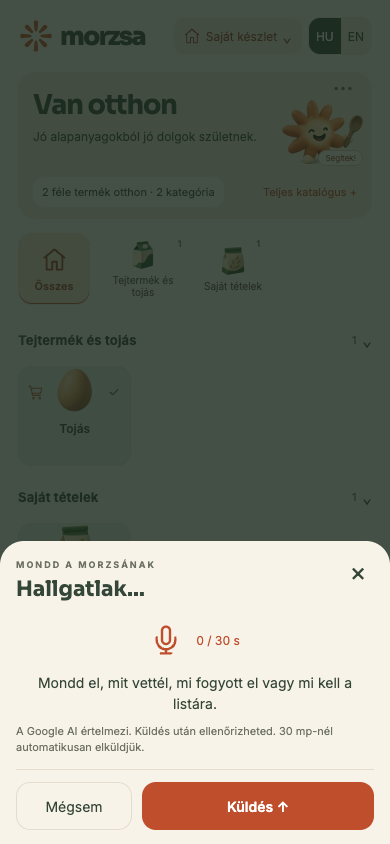
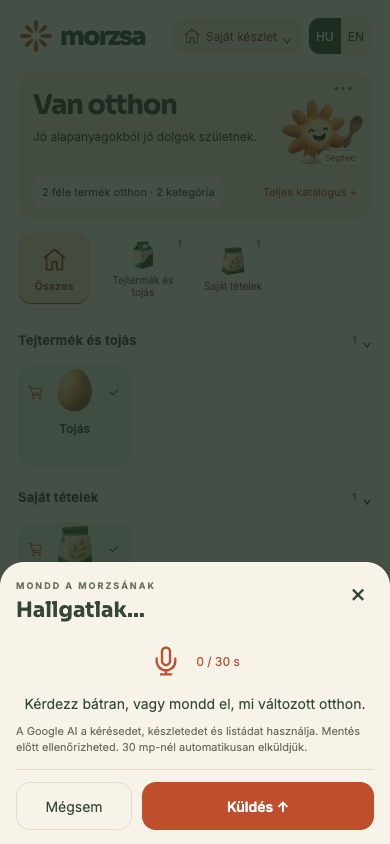
Add conversational household answers and simplify reviewed changes

Changed region(s): [[0.0615, 0.7393, 0.9231, 0.8934], [0.0, 0.6161, 1.0, 0.7393]]

diff --git a/voice-ui.js b/voice-ui.js
@@ -5,14 +5,14 @@ function voiceError(error){
  const en=language==='en',messages={
  VOICE_SIGN_IN_REQUIRED:['Morzsa AI-segítségéhez előbb lépj be.','Sign in to use Morzsa’s AI assistant.'],
  VOICE_SETUP_REQUIRED:['A hangfelismerés még nincs bekötve. Addig használd a szöveges felvételt.','Voice is not configured yet. You can use text entry in the meantime.'],
- VOICE_DAILY_LIMIT:['Mára elfogyott a hangfelismerés kerete. Használd a szöveges felvételt.','The daily voice limit has been reached. Use text entry instead.'],
+ VOICE_DAILY_LIMIT:['Mára elfogyott az asszisztens kerete. A kézi felvétel továbbra is használható.','The daily assistant limit has been reached. Manual entry is still available.'],
  VOICE_INVALID_RESPONSE:['Nem sikerült egyértelműen értelmezni. Mondd el újra rövidebben.','Could not interpret that clearly. Try a shorter message.'],
  VOICE_UNSUPPORTED:['Ebben a böngészőben nem elérhető a hangfelvétel. Használd a szöveges felvételt.','Recording is not available in this browser. Use text entry.'],
  VOICE_TOO_LARGE:['A felvétel túl nagy. Próbálj rövidebb üzenetet.','Recording is too large. Try a shorter message.'],
  VOICE_CHANGED:['Közben megváltozott a fiók vagy a háztartás. Kezdd újra a felvételt.','Account or household changed. Start a new recording.'],
  NotAllowedError:['Engedélyezd a mikrofont a böngészőben, vagy használd a szöveges felvételt.','Allow microphone access in your browser, or use text entry.'],
  NotFoundError:['Nem található mikrofon. Használd a szöveges felvételt.','No microphone found. Use text entry.']};
- return (messages[error?.message]||messages[error?.name]||['A hangfelismerés most nem elérhető. Semmit sem módosítottunk. Próbáld újra.','Voice is unavailable right now. Nothing was changed. Try again.'])[en?1:0];
+ return (messages[error?.message]||messages[error?.name]||['Morzsa most nem tud válaszolni. Semmit sem módosítottunk. Próbáld újra.','Morzsa cannot respond right now. Nothing was changed. Try again.'])[en?1:0];
 }
 let voiceUndoTimer;
 function showVoiceUndo(changes,context){
@@ -34,7 +34,7 @@ async function openVoiceCommand(mode='voice'){
  if(document.getElementById('voice-dialog')?.open||window.household?.busy)return;
  const say=(hu,en)=>language==='en'?en:hu,context=voiceContext();
  document.getElementById('voice-dialog')?.remove();const q=document.createElement('dialog');q.id='voice-dialog';q.setAttribute('data-no-translate','');document.body.append(q);
- let closed=false,saving=false,recording=false,stream=null,recorder=null,timer=null,chunks=[],bytes=0,discard=false,operations=[],generation=0;
+ let closed=false,saving=false,recording=false,stream=null,recorder=null,timer=null,chunks=[],bytes=0,discard=false,operations=[],generation=0,conversation=[];
  const stopTracks=()=>{stream?.getTracks().forEach(t=>t.stop());stream=null;clearInterval(timer)};
  const close=()=>{if(!saving)q.close()};
  q.oncancel=e=>{if(saving)e.preventDefault()};
@@ -45,9 +45,9 @@ async function openVoiceCommand(mode='voice'){
  function footer(content){const el=document.createElement('div');el.className='voice-footer';el.innerHTML=content;q.append(el)}
  function errorView(error){if(!active())return;shell('<p role="alert">'+esc(voiceError(error))+'</p><button class="primary full" id="voice-retry">'+say('Újra próbálom','Try again')+'</button><button class="small-button full" id="voice-text">'+say('Inkább leírom','Use text instead')+'</button>');q.querySelector('#voice-retry').onclick=()=>{close();openVoiceCommand()};q.querySelector('#voice-text').onclick=()=>{close();openPantryEntry()};}
  function startView(){
-  shell('<p>'+say('„Vettem tejet és tojást. A vaj elfogyott, írd a listára.”','“I bought milk and eggs. We ran out of butter; put it on the list.”')+'</p><button class="voice-record primary full" id="voice-record">'+voiceMicIcon+' '+say('Felvétel indítása','Start recording')+'</button><p class="voice-disclosure">'+say('Legfeljebb 30 másodperc. A hangot vagy szöveget a Google AI értelmezi; a Morzsa nem menti el. Küldés után ellenőrizheted és javíthatod a változásokat.','Up to 30 seconds. Google AI interprets the audio or text; Morzsa does not store it. Review and edit the changes after sending.')+'</p>');
+  shell('<p>'+say('„Vettem tejet és tojást. A vaj elfogyott, írd a listára.”','“I bought milk and eggs. We ran out of butter; put it on the list.”')+'</p><button class="voice-record primary full" id="voice-record">'+voiceMicIcon+' '+say('Felvétel indítása','Start recording')+'</button><p class="voice-disclosure">'+say('Legfeljebb 30 másodperc. A Google AI a kérésedet, készletedet, listádat és az itt folytatott beszélgetést használja; a Morzsa nem menti el a beszélgetést. Küldés után ellenőrizheted és javíthatod a változásokat.','Up to 30 seconds. Google AI uses your message, pantry, list and this conversation; Morzsa does not store the conversation. Review and edit the changes after sending.')+'</p>');
   q.querySelector('#voice-record').onclick=startRecording;
-  const form=document.createElement('form');form.id='assistant-text-form';form.innerHTML='<label for="assistant-text">'+say('Vagy írd le egy mondatban','Or write a quick message')+'</label><textarea id="assistant-text" rows="2" maxlength="2000" placeholder="'+say('Vettem tejet. Elfogyott a vaj, írd a listára.','Bought milk. We ran out of butter; put it on the list.')+'"></textarea><button class="primary full" id="assistant-send" disabled>'+say('Értelmezés','Interpret')+'</button>';q.querySelector('.voice-disclosure').before(form);
+  const form=document.createElement('form');form.id='assistant-text-form';form.innerHTML='<label for="assistant-text">'+say('Kérdezz, vagy mondd el, mi változott','Ask a question or tell me what changed')+'</label><textarea id="assistant-text" rows="2" maxlength="2000" placeholder="'+say('Vettem tejet. Elfogyott a vaj, írd a listára.','Bought milk. We ran out of butter; put it on the list.')+'"></textarea><button class="primary full" id="assistant-send" disabled>'+say('Értelmezés','Interpret')+'</button>';q.querySelector('.voice-disclosure').before(form);
   const input=form.querySelector('textarea'),send=form.querySelector('button');input.oninput=()=>send.disabled=!input.value.trim();form.onsubmit=e=>{e.preventDefault();if(input.value.trim())interpretText(input.value.trim())};
   const ideas=document.createElement('button');ideas.className='small-button full';ideas.textContent=say('Mit főzhetnék ezekből?','What can I cook with this?');ideas.onclick=()=>{close();page='recipes';render();window.scrollTo(0,0)};q.querySelector('.voice-body').append(ideas);
   if(mode==='text')input.focus();
@@ -61,32 +61,46 @@ async function openVoiceCommand(mode='voice'){
    recorder.ondataavailable=e=>{if(e.data.size){bytes+=e.data.size;if(bytes>3000000){discard=true;if(recorder.state==='recording')recorder.stop();stopTracks();errorView(Error('VOICE_TOO_LARGE'));return}chunks.push(e.data)}};
    recorder.onerror=()=>{discard=true;stopTracks();errorView(Error('VOICE_UNAVAILABLE'))};
    recorder.onstop=async()=>{recording=false;stopTracks();if(discard||!active())return;const blob=new Blob(chunks,{type:mime.split(';')[0]});chunks=[];await interpret(blob)};
-   shell('<div class="voice-listening">'+voiceMicIcon+'<span id="voice-clock">0 / 30 s</span></div><p class="voice-record-hint">'+say('Mondd el, mit vettél, mi fogyott el vagy mi kell a listára.','Tell me what you bought, used up or need on the list.')+'</p><p class="voice-disclosure">'+say('A Google AI értelmezi. Küldés után ellenőrizheted. 30 mp-nél automatikusan elküldjük.','Interpreted by Google AI. Review after sending. Sent automatically at 30 seconds.')+'</p>',say('Hallgatlak…','Listening…'));q.dataset.view='recording';
+   shell('<div class="voice-listening">'+voiceMicIcon+'<span id="voice-clock">0 / 30 s</span></div><p class="voice-record-hint">'+say('Kérdezz bátran, vagy mondd el, mi változott otthon.','Ask me anything, or tell me what changed at home.')+'</p><p class="voice-disclosure">'+say('A Google AI a kérésedet, készletedet és listádat használja. Mentés előtt ellenőrizheted. 30 mp-nél automatikusan elküldjük.','Google AI uses your message, pantry and list. Review before saving. Sent automatically at 30 seconds.')+'</p>',say('Hallgatlak…','Listening…'));q.dataset.view='recording';
    footer('<button class="small-button" id="voice-cancel">'+say('Mégsem','Cancel')+'</button><button class="primary" id="voice-send">'+say('Küldés','Send')+' ↑</button>');
    q.querySelector('#voice-send').onclick=()=>{if(recording&&recorder.state==='recording'){q.querySelector('#voice-send').disabled=true;recorder.stop()}};q.querySelector('#voice-cancel').onclick=close;
    recorder.start(250);recording=true;const start=Date.now();timer=setInterval(()=>{const seconds=Math.floor((Date.now()-start)/1000);const clock=q.querySelector('#voice-clock');if(clock)clock.textContent=seconds+' / 30 s';if(seconds>=30&&recorder.state==='recording')recorder.stop()},200);
   }catch(e){stopTracks();if(active())errorView(e)}
  }
+ function requestContext(){return {assistant:true,destination:page==='shopping'?'list':'stock',context:{stock:Object.keys(state.stock).filter(n=>state.stock[n]>0).slice(0,1000),cart:state.cart.slice(0,1000).map(i=>({name:i.name,quantity:i.quantity||1,unit:i.unit||productUnit(i.name)}))},history:conversation.slice(-6)}}
+ function receive(output){
+  operations=VoiceModel.resolve(output,[...catalog,...state.custom],productEnglish,QuickEntry).map(o=>({...o,enabled:true}));
+  conversation.push({role:'user',text:output.transcript},{role:'model',text:output.answer||output.clarification||say('Módosításokat javasoltam, még nincsenek mentve.','Changes proposed, not yet saved.')});conversation=conversation.slice(-6);
+  if(operations.length)review(output);else answerView(output);
+ }
+ function answerView(output){
+  shell('<div class="assistant-answer" role="status">'+esc(output.answer||output.clarification||say('Nem értettem pontosan. Elmondanád másképp?','I did not quite catch that. Could you rephrase?'))+'</div>'+(output.answer&&output.clarification?'<p class="voice-clarification">'+esc(output.clarification)+'</p>':'')+'<form id="assistant-followup-form"><label for="assistant-followup">'+say('Kérdezz tovább','Ask a follow-up')+'</label><textarea id="assistant-followup" rows="2" maxlength="2000" placeholder="'+say('És valami gyorsabbat?','Something quicker?')+'"></textarea></form>',say('Morzsa válasza','Morzsa’s answer'));
+  footer('<button class="small-button" id="assistant-followup-mic" aria-label="'+say('Kérdezés hanggal','Ask by voice')+'">'+voiceMicIcon+'</button><button class="primary" id="assistant-followup-send" disabled>'+say('Küldés','Send')+'</button>');
+  const input=q.querySelector('#assistant-followup'),send=q.querySelector('#assistant-followup-send');input.oninput=()=>send.disabled=!input.value.trim();const submit=()=>{if(input.value.trim())interpretText(input.value.trim())};send.onclick=submit;q.querySelector('form').onsubmit=e=>{e.preventDefault();submit()};q.querySelector('#assistant-followup-mic').onclick=startRecording;
+ }
  async function interpretText(text){
   if(!active())return;shell('<p role="status">'+say('Értelmezem a kérésed…','Interpreting your request…')+'</p>');
-  try{const output=await window.household.voiceCommand({text,language});if(!active())return;operations=VoiceModel.resolve(output,[...catalog,...state.custom],productEnglish,QuickEntry).map(o=>({...o,enabled:true}));review(output)}catch(e){if(active())errorView(e)}
+  try{const output=await window.household.voiceCommand({text,language,...requestContext()});if(!active())return;receive(output)}catch(e){if(active())errorView(e)}
  }
  async function interpret(blob){
   shell('<p role="status">'+say('Értelmezem a mondatodat…','Interpreting your message…')+'</p>');
   try{
    if(!blob.size)throw Error('VOICE_INVALID_RESPONSE');
    const audio=await new Promise((resolve,reject)=>{const reader=new FileReader();reader.onload=()=>resolve(String(reader.result).split(',')[1]);reader.onerror=reject;reader.readAsDataURL(blob)});
-   if(!active())return;const output=await window.household.voiceCommand({audio,mimeType:blob.type,language});
-   if(!active())return;operations=VoiceModel.resolve(output,[...catalog,...state.custom],productEnglish,QuickEntry).map(o=>({...o,enabled:true}));review(output);
+   if(!active())return;const output=await window.household.voiceCommand({audio,mimeType:blob.type,language,...requestContext()});
+   if(!active())return;receive(output);
   }catch(e){if(active())errorView(e)}
  }
  function review(output){
   shell('<details class="voice-transcript-details"><summary>'+say('Ezt mondtad','Your message')+'</summary><blockquote class="voice-transcript">'+esc(output.transcript)+'</blockquote></details>'+(output.clarification?'<p class="voice-clarification">'+esc(output.clarification)+'</p>':'')+'<div id="voice-operations"></div><p id="voice-feedback" role="status"></p>',say('Így jó lesz?','Does this look right?'));q.dataset.view='review';
   footer('<button class="small-button" id="voice-again">'+say('Új kérés','New request')+'</button><button class="primary" id="voice-apply">'+say('Mentés','Save changes')+'</button>');
+  if(output.answer){const answer=document.createElement('div');answer.className='assistant-answer compact';answer.textContent=output.answer;q.querySelector('#voice-operations').before(answer)}
   const container=q.querySelector('#voice-operations');
-  const labels={stock_add:say('Készletbe','Add to pantry'),stock_remove:say('Elfogyott','Remove from pantry'),list_set:say('Listára','Set on list')};
+  const labels={stock_add:say('Készletbe','To pantry'),stock_remove:say('Elfogyott','Used up'),list_set:say('Listára','To list')},expanded=new Set();
+  const summary=o=>{const d=VoiceModel.defaults(o,state,productUnit);return labels[o.action]+(o.action==='list_set'?' · '+d.quantity+' '+d.unit:'')};
   const paint=()=>{
-   container.innerHTML=operations.map((o,i)=>'<div class="voice-operation"><input type="checkbox" data-enabled="'+i+'" '+(o.enabled?'checked':'')+' aria-label="'+say('Művelet megtartása','Keep change')+' '+(i+1)+'"><div class="voice-operation-fields"><input data-name="'+i+'" value="'+esc(displayName(o.name))+'" maxlength="80" aria-label="'+say('Termék','Product')+' '+(i+1)+'" list="voice-products-'+i+'"><datalist id="voice-products-'+i+'">'+[...new Set([...o.suggestions,...catalog.map(c=>c.name),...state.custom.map(c=>c.name)])].map(n=>'<option value="'+esc(displayName(n))+'"></option>').join('')+'</datalist><select data-action="'+i+'" aria-label="'+say('Művelet','Action')+' '+(i+1)+'">'+Object.entries(labels).map(([id,label])=>'<option value="'+id+'" '+(o.action===id?'selected':'')+'>'+label+'</option>').join('')+'</select>'+(o.action==='list_set'?'<div class="voice-quantity"><input data-quantity="'+i+'" aria-label="'+say('Teljes mennyiség','Total quantity')+'" type="number" min="0.01" max="999" step="any" placeholder="'+say('Meglévő / 1','Current / 1')+'" value="'+(o.quantity??'')+'"><select data-unit="'+i+'" aria-label="'+say('Egység','Unit')+'"><option value="">'+say('Alapértelmezett','Default')+'</option>'+['db','kg','g','l','ml','csomag','doboz','üveg','pohár'].map(u=>'<option '+(o.unit===u?'selected':'')+'>'+u+'</option>').join('')+'</select></div>':'')+(!o.confirmed?'<label class="voice-confirm"><input type="checkbox" data-confirm="'+i+'">'+say('Ezt a pontos nevet használom','Use this exact name')+'</label>':'')+'</div></div>').join('');
+   container.innerHTML=operations.map((o,i)=>'<div class="voice-operation"><input type="checkbox" data-enabled="'+i+'" '+(o.enabled?'checked':'')+' aria-label="'+say('Művelet megtartása','Keep change')+' '+(i+1)+'"><details class="voice-operation-edit" data-edit="'+i+'" '+(!o.confirmed||expanded.has(i)?'open':'')+'><summary aria-label="'+say('Szerkesztés: ','Edit: ')+esc(displayName(o.name))+'"><span class="voice-item-name">'+esc(displayName(o.name))+'</span><span class="voice-item-action">'+esc(summary(o))+'</span><span class="voice-edit-mark" aria-hidden="true">⌄</span></summary><div class="voice-operation-fields"><input data-name="'+i+'" value="'+esc(displayName(o.name))+'" maxlength="80" aria-label="'+say('Termék','Product')+' '+(i+1)+'" list="voice-products-'+i+'"><datalist id="voice-products-'+i+'">'+[...new Set([...o.suggestions,...catalog.map(c=>c.name),...state.custom.map(c=>c.name)])].map(n=>'<option value="'+esc(displayName(n))+'"></option>').join('')+'</datalist><select data-action="'+i+'" aria-label="'+say('Művelet','Action')+' '+(i+1)+'">'+Object.entries(labels).map(([id,label])=>'<option value="'+id+'" '+(o.action===id?'selected':'')+'>'+label+'</option>').join('')+'</select>'+(o.action==='list_set'?'<div class="voice-quantity"><input data-quantity="'+i+'" aria-label="'+say('Teljes mennyiség','Total quantity')+'" type="number" min="0.01" max="999" step="any" placeholder="'+say('Meglévő / 1','Current / 1')+'" value="'+(o.quantity??'')+'"><select data-unit="'+i+'" aria-label="'+say('Egység','Unit')+'"><option value="">'+say('Alapértelmezett','Default')+'</option>'+['db','kg','g','l','ml','csomag','doboz','üveg','pohár'].map(u=>'<option '+(o.unit===u?'selected':'')+'>'+u+'</option>').join('')+'</select></div>':'')+(!o.confirmed?'<label class="voice-confirm"><input type="checkbox" data-confirm="'+i+'">'+say('Ezt a pontos nevet használom','Use this exact name')+'</label>':'')+'</div></details></div>').join('');
+   container.querySelectorAll('[data-edit]').forEach(e=>e.ontoggle=()=>{if(e.open)expanded.add(Number(e.dataset.edit));else expanded.delete(Number(e.dataset.edit))});
    container.querySelectorAll('[data-enabled]').forEach(e=>e.onchange=()=>{operations[e.dataset.enabled].enabled=e.checked;update()});
    container.querySelectorAll('[data-name]').forEach(e=>e.onchange=()=>{const o=operations[e.dataset.name],matched=QuickEntry.ranked(e.value,[...catalog,...state.custom],productEnglish).find(r=>r.exact);o.name=matched?.item.name||e.value.trim();o.confirmed=!!matched;paint()});
    container.querySelectorAll('[data-action]').forEach(e=>e.onchange=()=>{operations[e.dataset.action].action=e.value;paint()});
@@ -94,7 +108,7 @@ async function openVoiceCommand(mode='voice'){
    container.querySelectorAll('[data-quantity]').forEach(e=>e.oninput=()=>{operations[e.dataset.quantity].quantity=e.value===''?null:Number(e.value);update()});
    container.querySelectorAll('[data-unit]').forEach(e=>e.onchange=()=>{operations[e.dataset.unit].unit=e.value||null;update()});update();
   };
-  function update(){const selected=operations.filter(o=>o.enabled);q.querySelector('#voice-apply').disabled=saving||!selected.length||selected.some(o=>!o.confirmed||o.action==='list_set'&&o.quantity!==null&&o.quantity<1&&!['kg','l'].includes(o.unit))||!VoiceModel.validate({transcript:'',clarification:'',operations:selected})}
+  function update(){container.querySelectorAll('[data-edit]').forEach(e=>{const o=operations[e.dataset.edit];e.querySelector('.voice-item-action').textContent=summary(o);e.closest('.voice-operation').classList.toggle('excluded',!o.enabled)});const selected=operations.filter(o=>o.enabled).map(o=>VoiceModel.defaults(o,state,productUnit));q.querySelector('#voice-apply').disabled=saving||!selected.length||selected.some(o=>!o.confirmed||o.action==='list_set'&&o.quantity!==null&&o.quantity<1&&!['kg','l'].includes(o.unit))||!VoiceModel.validate({transcript:'',clarification:'',operations:selected})}
   q.querySelector('#voice-again').onclick=startView;
   q.querySelector('#voice-apply').onclick=async()=>{
    if(!active()){errorView(Error('VOICE_CHANGED'));return}if(saving||window.household?.busy)return;

diff --git a/index.html b/index.html
@@ -1,1 +1,1 @@
-<!doctype html><html lang="hu"><head><meta charset="utf-8"><meta name="viewport" content="width=device-width, initial-scale=1, viewport-fit=cover"><meta name="theme-color" content="#F8F3E9"><link rel="icon" type="image/svg+xml" href="assets/brands/morzsa.svg"><title>Morzsa · Mi legyen vacsorára?</title><link rel="stylesheet" href="styles.css?v=morzsa-voice26"></head><body><div class="app"><header><a class="brand" href="#" aria-label="Morzsa" data-no-translate><img class="brand-mark" src="assets/brands/morzsa.svg" alt="" width="40" height="40">morzsa</a><div class="header-controls"><button id="household-button" aria-label="Háztartás">⌂</button><div class="language-switch" aria-label="Language" data-no-translate><button data-language="hu" lang="hu">HU</button><button data-language="en" lang="en">EN</button></div></div></header><div id="cloud-status" data-no-translate role="status"></div><main id="main"></main><nav aria-label="Fő navigáció"><button data-page="pantry"><span class="pantry-nav-icon" aria-hidden="true"><svg viewBox="0 0 24 24" width="24" height="24" fill="none" stroke="currentColor" stroke-width="1.6" stroke-linecap="round" stroke-linejoin="round"><path d="M3 10.5 12 3l9 7.5M5 9v12h5v-7h4v7h5V9"/></svg></span>Készlet</button><button data-page="shopping" class="shopping-nav"><span class="shopping-nav-icon" aria-hidden="true"><svg viewBox="0 0 24 24" width="25" height="25" fill="none" stroke="currentColor" stroke-width="1.8" stroke-linecap="round" stroke-linejoin="round"><path d="M2 3h3l3 13h11M6 6h15l-2 7H7.3"/><circle cx="9" cy="20" r="1"/><circle cx="18" cy="20" r="1"/></svg></span>Lista <i id="cart-count"></i></button><button data-page="recipes"><span aria-hidden="true">♡</span>Ötletek</button></nav></div><div id="toast" role="status" aria-live="polite"></div><dialog id="detail"></dialog><dialog id="quantity-dialog"></dialog><dialog id="history-dialog"></dialog><dialog id="clear-dialog" aria-labelledby="clear-title"></dialog><script src="catalog.js?v=morzsa-voice26"></script><script src="recipes.js"></script><script src="translations.js?v=1"></script><script src="i18n.js?v=morzsa-voice26"></script><script src="quick-entry.js?v=1"></script><script src="recipe-prompt.js?v=2"></script><script src="shopping-model.js?v=1"></script><script src="voice-model.js?v=1"></script><script src="app.js?v=morzsa-voice26"></script><dialog id="household-dialog" data-no-translate></dialog><script src="household-config.js?v=project1"></script><script src="household-model.js?v=morzsa-voice26"></script><script src="auth-link.js?v=3"></script><script src="household-live.js?v=1"></script><script src="household.js?v=morzsa-voice26"></script><script src="voice-ui.js?v=3"></script><script>startLocalization()</script></body></html>
+<!doctype html><html lang="hu"><head><meta charset="utf-8"><meta name="viewport" content="width=device-width, initial-scale=1, viewport-fit=cover"><meta name="theme-color" content="#F8F3E9"><link rel="icon" type="image/svg+xml" href="assets/brands/morzsa.svg"><title>Morzsa · Mi legyen vacsorára?</title><link rel="stylesheet" href="styles.css?v=morzsa-assistant27"></head><body><div class="app"><header><a class="brand" href="#" aria-label="Morzsa" data-no-translate><img class="brand-mark" src="assets/brands/morzsa.svg" alt="" width="40" height="40">morzsa</a><div class="header-controls"><button id="household-button" aria-label="Háztartás">⌂</button><div class="language-switch" aria-label="Language" data-no-translate><button data-language="hu" lang="hu">HU</button><button data-language="en" lang="en">EN</button></div></div></header><div id="cloud-status" data-no-translate role="status"></div><main id="main"></main><nav aria-label="Fő navigáció"><button data-page="pantry"><span class="pantry-nav-icon" aria-hidden="true"><svg viewBox="0 0 24 24" width="24" height="24" fill="none" stroke="currentColor" stroke-width="1.6" stroke-linecap="round" stroke-linejoin="round"><path d="M3 10.5 12 3l9 7.5M5 9v12h5v-7h4v7h5V9"/></svg></span>Készlet</button><button data-page="shopping" class="shopping-nav"><span class="shopping-nav-icon" aria-hidden="true"><svg viewBox="0 0 24 24" width="25" height="25" fill="none" stroke="currentColor" stroke-width="1.8" stroke-linecap="round" stroke-linejoin="round"><path d="M2 3h3l3 13h11M6 6h15l-2 7H7.3"/><circle cx="9" cy="20" r="1"/><circle cx="18" cy="20" r="1"/></svg></span>Lista <i id="cart-count"></i></button><button data-page="recipes"><span aria-hidden="true">♡</span>Ötletek</button></nav></div><div id="toast" role="status" aria-live="polite"></div><dialog id="detail"></dialog><dialog id="quantity-dialog"></dialog><dialog id="history-dialog"></dialog><dialog id="clear-dialog" aria-labelledby="clear-title"></dialog><script src="catalog.js?v=morzsa-assistant27"></script><script src="recipes.js"></script><script src="translations.js?v=1"></script><script src="i18n.js?v=morzsa-assistant27"></script><script src="quick-entry.js?v=1"></script><script src="recipe-prompt.js?v=2"></script><script src="shopping-model.js?v=1"></script><script src="voice-model.js?v=2"></script><script src="app.js?v=morzsa-assistant27"></script><dialog id="household-dialog" data-no-translate></dialog><script src="household-config.js?v=project1"></script><script src="household-model.js?v=morzsa-assistant27"></script><script src="auth-link.js?v=3"></script><script src="household-live.js?v=1"></script><script src="household.js?v=morzsa-assistant27"></script><script src="voice-ui.js?v=4"></script><script>startLocalization()</script></body></html>

diff --git a/tests/voice.browser.js b/tests/voice.browser.js
@@ -14,10 +14,10 @@ async(page)=>{
  try{
   await p.goto('http://localhost:8771');check((await p.locator('.home-overview-caption').textContent()).includes('3 féle'),'legacy save loaded');check(await p.locator('.catalog-section').count()===2,'home items grouped only in occupied categories');
   await p.locator('[data-home-category="Gyümölcsök"]').click();check(await p.locator('.ingredient-card').count()===1,'home category filters only present items');await p.locator('[data-browse-catalog]').click();check(await p.locator('.category-dock').count()===1,'full catalog still accessible');await p.locator('[data-home-view]').click();
-  check(await p.locator('nav .shopping-nav').evaluate(e=>getComputedStyle(e).backgroundColor)==='rgba(0, 0, 0, 0)','inactive list has no highlight');await p.locator('nav [data-page=shopping]').click();check(await p.locator('nav .shopping-nav').evaluate(e=>getComputedStyle(e).backgroundColor)!=='rgba(0, 0, 0, 0)','active list is highlighted');await p.locator('nav [data-page=pantry]').click();await record();await p.screenshot({path:'/Users/I769428/Documents/ChatGPT/Főzés/konyha-app/design/voice-review-compact.png'});check(await p.evaluate(()=>window.recordStarts===1),'one tap starts recording');check((await p.locator('.voice-operation').first().boundingBox()).height<70,'compact stock review row');check(await p.locator('#voice-apply').isDisabled(),'uncertain name requires explicit review');check(calls.length===1&&!JSON.stringify(calls).includes('never send'),'only audio sent');check(await p.evaluate(()=>window.trackStops)>0,'microphone released');
+  check(await p.locator('nav .shopping-nav').evaluate(e=>getComputedStyle(e).backgroundColor)==='rgba(0, 0, 0, 0)','inactive list has no highlight');await p.locator('nav [data-page=shopping]').click();check(await p.locator('nav .shopping-nav').evaluate(e=>getComputedStyle(e).backgroundColor)!=='rgba(0, 0, 0, 0)','active list is highlighted');await p.locator('nav [data-page=pantry]').click();await record();await p.screenshot({path:'/Users/I769428/Documents/ChatGPT/Főzés/konyha-app/design/voice-review-compact.png'});check(await p.evaluate(()=>window.recordStarts===1),'one tap starts recording');check((await p.locator('.voice-operation').first().boundingBox()).height<70,'compact stock review row');check(await p.locator('#voice-apply').isDisabled(),'uncertain name requires explicit review');check(calls.length===1&&!JSON.stringify(calls).includes('never send'),'audio and bounded context exclude private saved chats');check(await p.evaluate(()=>window.trackStops)>0,'microphone released');
   await p.locator('[data-confirm="3"]').check();await p.locator('#voice-apply').click();await p.locator('#voice-undo').waitFor();let saved=await p.evaluate(()=>state);check(saved.stock.Tej===2&&saved.stock.Vaj===0,'mixed stock changes applied');check(saved.cart[0].quantity===2,'list total set');check(saved.likes[0]==='keep'&&saved.chats.private==='never send','unrelated state retained');check(saved.custom.some(i=>i.name==='Furcsa termék'),'custom category retained');
   await p.evaluate(()=>{state.stock.Alma=0;state.cart[0].quantity=3});await p.locator('[data-voice-undo]').click();check(await p.evaluate(()=>state.stock.Vaj===2&&!state.stock.Tej&&state.stock.Alma===0&&state.cart[0].quantity===3),'undo keeps newer changes');
-  await record();if(await p.locator('[data-confirm="3"]').count())await p.locator('[data-confirm="3"]').check();await p.locator('[data-name="0"]').fill('Eggs');await p.locator('[data-action="0"]').focus();check(await p.locator('[data-name="0"]').inputValue()==='Tojás','edited English alias maps to canonical');await p.locator('#voice-apply').click();await p.locator('#voice-undo').waitFor();await p.locator('[data-dismiss]').click();
+  await record();if(await p.locator('[data-confirm="3"]').count())await p.locator('[data-confirm="3"]').check();await p.locator('[data-edit="0"] summary').click();await p.locator('[data-name="0"]').fill('Eggs');await p.locator('[data-action="0"]').focus();check(await p.locator('[data-name="0"]').inputValue()==='Tojás','edited English alias maps to canonical');await p.locator('#voice-apply').click();await p.locator('#voice-undo').waitFor();await p.locator('[data-dismiss]').click();
   await p.locator('.pantry-voice-fab').click();await p.locator('#voice-send').waitFor();await p.screenshot({path:'/Users/I769428/Documents/ChatGPT/Főzés/konyha-app/design/voice-recording-sheet.png'});const before=calls.length;await p.locator('#voice-cancel').click();await p.waitForTimeout(30);check(calls.length===before,'cancel recording does not upload');
   await p.locator('.pantry-voice-fab').click();await p.locator('#voice-send').waitFor();delay=true;await p.locator('#voice-send').click();await p.waitForFunction(()=>document.querySelector('#voice-dialog').textContent.includes('Értelmezem'));while(!release)await new Promise(r=>setTimeout(r,10));await p.locator('#voice-dialog .close').click();release();delay=false;await p.waitForTimeout(30);check(await p.locator('#voice-dialog[open]').count()===0,'late response discarded after close');
   available=false;await p.locator('.assistant-trigger').click();await p.locator('#voice-text').waitFor();check((await p.locator('#voice-dialog').textContent()).includes('nincs bekötve'),'unavailable clearly reported');await p.locator('#voice-text').click();await p.locator('#pantry-entry-dialog[open]').waitFor();await p.locator('#pantry-entry-dialog .close').click();

diff --git a/tests/assistant.browser.js b/tests/assistant.browser.js
@@ -1,0 +1,22 @@
+// Isolated browser regression; mocked provider, no real household writes.
+async(page)=>{
+ const ctx=await page.context().browser().newContext({viewport:{width:390,height:844}}),p=await ctx.newPage(),calls=[],errors=[];
+ const check=(v,m)=>{if(!v)throw Error(m)};p.on('pageerror',e=>errors.push(e.message));
+ await ctx.addInitScript(()=>{
+  localStorage.setItem('morzsa-v2',JSON.stringify({stock:{Tej:2,Vaj:2},cart:[],custom:[],likes:[],history:[],chats:{private:'do-not-share-742'}}));
+  localStorage.setItem('morzsa-session',JSON.stringify({access_token:'mock',expires_at:9999999999,user:{id:'member'}}));localStorage.setItem('morzsa-last-household-member',JSON.stringify({id:null}));
+ });
+ await p.route('https://cbgcugshwivxpaurzyqq.supabase.co/**',async r=>{
+  if(!r.request().url().includes('/functions/v1/voice-command'))return r.fulfill({json:[]});
+  if(r.request().method()==='GET')return r.fulfill({json:{configured:true}});
+  const body=r.request().postDataJSON();calls.push(body);return r.fulfill({json:{transcript:body.text,clarification:'',answer:calls.length===1?'Készíthetsz tejes zabkását. Zabpehely még kell hozzá.':calls.length===2?'Próbálj pirítóst vajjal. <script>test</script>':'A krumpliból gyors köretet készíthetsz.',operations:calls.length>=3?[{action:'list_set',name:'Krumpli',quantity:null,unit:null}]:[]}});
+ });
+ try{
+  await p.goto('http://localhost:8771');const before=await p.evaluate(()=>JSON.stringify(state));await p.locator('.assistant-trigger').click();await p.locator('#assistant-text').fill('Mit főzzek?');await p.locator('#assistant-send').click();await p.locator('#assistant-followup').waitFor();check((await p.locator('.assistant-answer').textContent()).includes('zabkását'),'answer visible');check(await p.evaluate(()=>JSON.stringify(state))===before,'question never writes state');check(!await p.locator('#voice-apply').count(),'question has no empty confirmation');check(calls[0].context.stock.includes('Tej')&&!JSON.stringify(calls).includes('do-not-share-742'),'only scoped household context sent');
+  await p.screenshot({path:'/Users/I769428/Documents/ChatGPT/Főzés/konyha-app/design/assistant-answer.png'});await p.locator('#assistant-followup').fill('És valami gyorsabbat?');await p.locator('#assistant-followup-send').click();await p.locator('#assistant-followup').waitFor();check(calls[1].history.length===2,'follow-up has previous exchange');check(await p.locator('.assistant-answer script').count()===0,'answer renders as text');
+  await p.locator('#assistant-followup').fill('Krumpli a listára, és mire használjam?');await p.locator('#assistant-followup-send').click();await p.locator('#voice-apply').waitFor();check((await p.locator('.voice-item-action').textContent()).includes('1 kg'),'name-only uses product default');check(await p.locator('[data-name]').isVisible()===false,'editor hidden until needed');check(await p.locator('#voice-apply').isEnabled(),'no unit confirmation required');check((await p.locator('.assistant-answer').textContent()).includes('köretet'),'mixed response retains answer');await p.screenshot({path:'/Users/I769428/Documents/ChatGPT/Főzés/konyha-app/design/assistant-default-review.png'});
+  await p.locator('.voice-operation-edit summary').click();check(await p.locator('[data-name]').isVisible(),'tap opens editor');await p.locator('[data-quantity]').fill('3');await p.locator('.voice-operation-edit summary').click();check((await p.locator('.voice-item-action').textContent()).includes('3 kg'),'edited summary matches');await p.locator('#voice-apply').click();await p.locator('#voice-undo').waitFor();check(await p.evaluate(()=>state.cart[0].quantity===3&&state.cart[0].unit==='kg'),'edited default saved');
+  await p.locator('[data-dismiss]').click();await p.locator('.assistant-trigger').click();await p.locator('#assistant-text').fill('Krumpli a listára');await p.locator('#assistant-send').click();await p.locator('#voice-apply').waitFor();check(calls[3].history.length===0,'closed conversation is cleared');check((await p.locator('.voice-item-action').textContent()).includes('3 kg'),'repeat preserves existing total');await p.locator('#voice-apply').click();await p.waitForFunction(()=>!document.querySelector('#voice-dialog').open);check(await p.evaluate(()=>state.cart.length===1&&state.cart[0].quantity===3),'repeat does not double quantity');
+  check(!errors.length,errors.join('\n'));return {passed:true,checks:'question, follow-up, minimal context, text-only answer, mixed response, default quantities, expandable edits, save, repeat'};
+ }finally{await ctx.close()}
+}

diff --git a/voice-model.js b/voice-model.js
@@ -5,6 +5,14 @@ const VoiceModel=(()=>{
  const safeName=n=>typeof n==='string'&&n.trim().length>0&&n.length<=80&&!/[\u0000-\u001f]/.test(n)&&!['__proto__','constructor','prototype'].includes(n.trim());
  function validate(v){return v&&typeof v.transcript==='string'&&v.transcript.length<=3000&&typeof v.clarification==='string'&&v.clarification.length<=500&&Array.isArray(v.operations)&&v.operations.length<=30&&v.operations.every(o=>o&&actions.includes(o.action)&&safeName(o.name)&&(o.quantity===null||Number.isFinite(o.quantity)&&o.quantity>0&&o.quantity<=999)&&(o.unit===null||units.includes(o.unit)))}
  function canonical(o){if(o.quantity!==null&&o.quantity<1){if(o.unit==='kg')return {...o,quantity:o.quantity*1000,unit:'g'};if(o.unit==='l')return {...o,quantity:o.quantity*1000,unit:'ml'}}return o}
+ function defaults(op,current,unitFor){
+  if(op.action!=='list_set')return op;
+  const found=current.cart.find(i=>norm(i.name)===norm(op.name));
+  const unit=op.unit||found?.unit||unitFor(op.name)||'db';
+  // A unit-only request starts at one when it changes an existing unit.
+  const quantity=op.quantity??(found&&(!op.unit||op.unit===found.unit)?found.quantity||1:1);
+  return canonical({...op,quantity,unit});
+ }
  function resolve(value,items,english={},quick){
   if(!validate(value))throw Error('VOICE_INVALID_RESPONSE');
   return value.operations.map(o=>{const ranked=quick.ranked(o.name,items,english),exact=ranked.find(r=>r.exact);return {...canonical(o),name:exact?.item.name||o.name.trim(),confirmed:!!exact,suggestions:ranked.slice(0,5).map(r=>r.item.name)}});
@@ -13,7 +21,7 @@ const VoiceModel=(()=>{
   if(!validate({transcript:'',clarification:'',operations}))throw Error('VOICE_INVALID_RESPONSE');
   const next=JSON.parse(JSON.stringify(current)),changes=[];
   for(const raw of operations){
-   const op=canonical(raw);if(op.action==='list_set'&&op.quantity!==null&&op.quantity<1)throw Error('VOICE_INVALID_QUANTITY');
+   const op=defaults(raw,next,unitFor);if(op.action==='list_set'&&op.quantity!==null&&op.quantity<1)throw Error('VOICE_INVALID_QUANTITY');
    const name=op.name.trim(),known=[...items,...next.custom].find(i=>norm(i.name)===norm(name));
    if(known&&known.name!==name)throw Error('VOICE_NAME_CHANGED');
    if(op.action==='stock_add'||op.action==='stock_remove'){
@@ -46,6 +54,6 @@ const VoiceModel=(()=>{
   }
   return {next,skipped};
  }
- return {validate,resolve,plan,undo,safeName};
+ return {validate,resolve,plan,undo,safeName,defaults};
 })();
 if(typeof module!=='undefined')module.exports=VoiceModel;

diff --git a/styles.css b/styles.css
@@ -344,3 +344,19 @@ nav .shopping-nav.active{background:var(--orange-soft);color:var(--orange-ink);b
 @media(max-width:360px){.voice-operation-fields{grid-template-columns:minmax(0,1fr) 100px}}
 
 .voice-footer button:disabled{opacity:.45;cursor:default}
+/* Review is a readable list; editing controls appear only on demand. */
+.voice-operation-edit{min-width:0}
+.voice-operation-edit>summary{list-style:none;display:grid;grid-template-columns:minmax(0,1fr) auto 12px;align-items:center;gap:8px;min-height:44px;cursor:pointer;padding:0 2px 0 6px}
+.voice-operation-edit>summary::-webkit-details-marker{display:none}
+.voice-item-name{font-size:15px;font-weight:500;overflow-wrap:anywhere}
+.voice-item-action{font-size:11px;color:var(--muted);text-align:right;max-width:116px}
+.voice-edit-mark{color:var(--muted);font-size:13px}
+.voice-operation-edit[open] .voice-edit-mark{transform:rotate(180deg)}
+.voice-operation-edit .voice-operation-fields{padding:6px 0 8px}
+.voice-operation.excluded .voice-operation-edit>summary{opacity:.45;text-decoration:line-through}
+.assistant-answer{font-size:15px;line-height:1.65;white-space:pre-wrap;overflow-wrap:anywhere;padding:8px 0 16px}
+.assistant-answer.compact{font-size:13px;padding:4px 0 12px}
+#assistant-followup-form{margin:0;padding:12px 0 0;border-top:1px solid var(--line)}
+#assistant-followup-form label{font-size:12px;color:var(--muted)}
+#assistant-followup{display:block;width:100%;resize:vertical;min-height:68px;max-height:160px;margin-top:6px;padding:10px;border:1px solid var(--line);border-radius:12px;background:var(--white);color:var(--ink);font:inherit;font-size:16px}
+#assistant-followup-mic{display:grid;place-items:center}

diff --git a/supabase/VOICE-SETUP.md b/supabase/VOICE-SETUP.md
@@ -39,3 +39,13 @@ Források: [Google hangfeldolgozás](https://ai.google.dev/gemini-api/docs/audio
 A készletnél a Morzsa-kabalára kattintva ugyanennek az asszisztensnek írhatsz is. A szöveget a voice-command függvény ugyanúgy ellenőrzött műveleti javaslatokra bontja, mint a hangot. A szöveges módhoz nem kell mikrofon. Az adatokat csak a szerkeszthető áttekintő jóváhagyása után mentjük. A szöveges és hangkérések közös napi keretet használnak.
 
 A „Mit főzhetnék ezekből?” gomb a meglévő készletalapú receptötletekhez vezet. Pusztán valamennyi alapanyag felhasználásából az asszisztens nem következtethet arra, hogy teljesen elfogyott.
+
+## Általános asszisztens és alapértékek
+
+A kabalánál írásban, a mikrofonról hanggal kérdezni is lehet. Például: „Mit főzzek?”, „Mivel helyettesíthetem a tojást?” vagy egy általános kérdés. A válasz után szöveges vagy hangos következő kérés indítható. Egy kérdés önmagában nem kér adatmódosítást; vegyes kérésnél a válasz mellett külön jóváhagyásra váró tételek jelennek meg. Az asszisztensnek nincs webkeresése, és nem ellenőriz aktuális árakat.
+
+A Google AI megkapja az aktuális háztartás jelenlévő termékneveit, a bevásárlólista neveit/mennyiségeit/egységeit és a nyitott beszélgetés utolsó három üzenetváltását. Régi receptcsevegést, archívumot, felhasználóazonosítót vagy fiókadatot nem adunk a modellnek. A beszélgetés csak memóriában él, a panel bezárásakor elvész. Ugyanaz a napi kvóta érvényes, mint a hangparancsokra.
+
+Ha csak a termék neve szerepel, a készletnézetből indított kérés alapból készletbe vételt jelent; egy kifejezett cél („listára”) ezt felülírja. Kérdésből nem következtetünk változtatásra. A készlethez nincs szükség mennyiségre. Új listatételnél a hiányzó mennyiség 1, az egység a katalógus alapegysége (például krumpli: kg); egyedi terméknél db. Már listázott terméknél a meglévő mennyiség és egység marad, ha nincs új megadva. Kifejezetten más egység kérése mennyiség nélkül 1-re állít, nem értelmezi át a korábbi számot.
+
+A kompakt áttekintő sorai érintésre szerkeszthetők; ismeretlen terméknél a névellenőrzés rögtön nyitva van. A háttérfüggvény új answer mezője és az opcionális context/history/destination bemenet visszafelé kompatibilis. Régi kliensnek a csak szöveges választ clarification mezőben is visszaadjuk. Nincs adatbázis-migráció.

diff --git a/design-qa.md b/design-qa.md
@@ -63,3 +63,11 @@ final result: passed
 - Bottom sheet keeps send/save actions below a separately scrolling body. Compact editable product/action rows retain uncertain-name confirmation, exclusion and list quantity controls. Transcript is expandable.
 - Browser regression passed at 390 × 844 and 320 × 740: immediate start, compact rows, navigation states, 24-operation overflow, visible save/send, permission denial, edit/apply/undo, newer edits, cancellation and stale responses. Microphone/provider simulated.
 - Screenshots: design/voice-review-compact.png and design/voice-recording-sheet.png. Visually checked. All 46 Node tests and 5 SQL suites passed.
+
+## Conversational answers and lighter review — 2026-10-30
+
+- Review rows show product, action and effective list quantity. Editor fields are collapsed; unrecognized names remain expanded for explicit confirmation. Original transcript stays optional.
+- Missing amounts use 1/product unit for new list items, preserve existing list totals, and remain irrelevant for pantry presence.
+- Assistant supports text/voice answers plus follow-up exchanges with bounded current-household context; questions have no save button or state mutations. Mixed requests show answers above proposed changes.
+- Validation: 49 Node tests plus 5 SQL suites; voice and assistant browser regressions include defaults, repeat actions, answer rendering, no-mutation questions, mixed requests, follow-up context and compatibility. Provider responses are simulated.
+- Visual evidence: design/voice-review-compact.png, design/assistant-answer.png, design/assistant-default-review.png.
